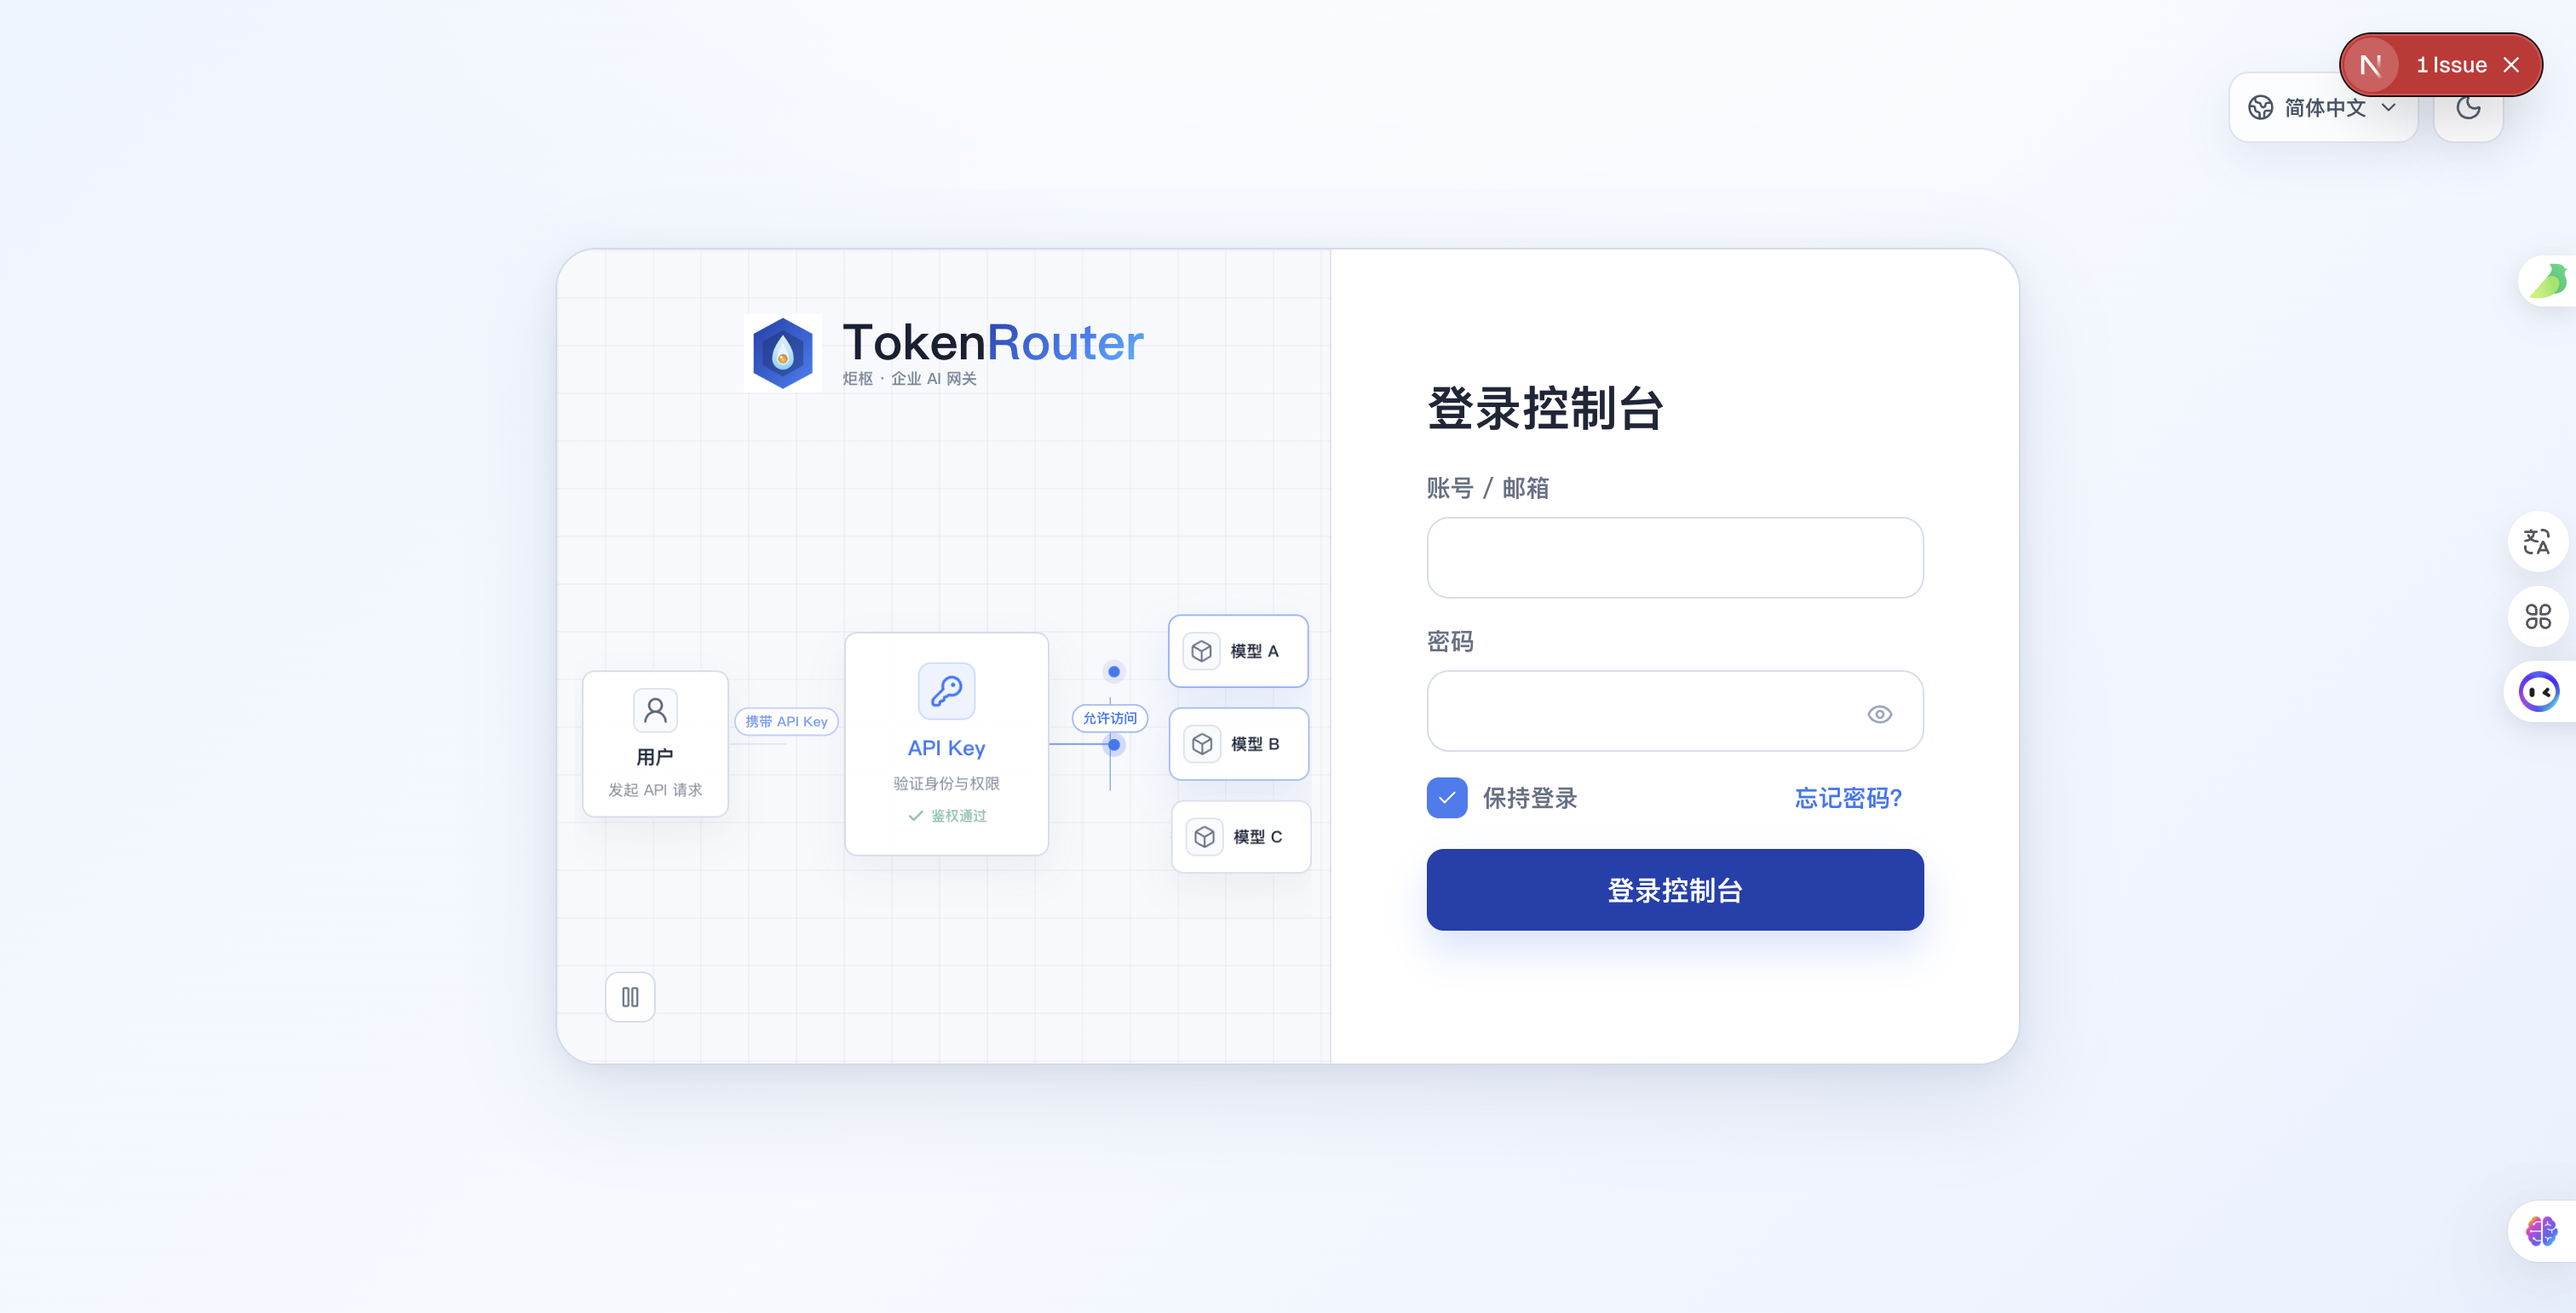
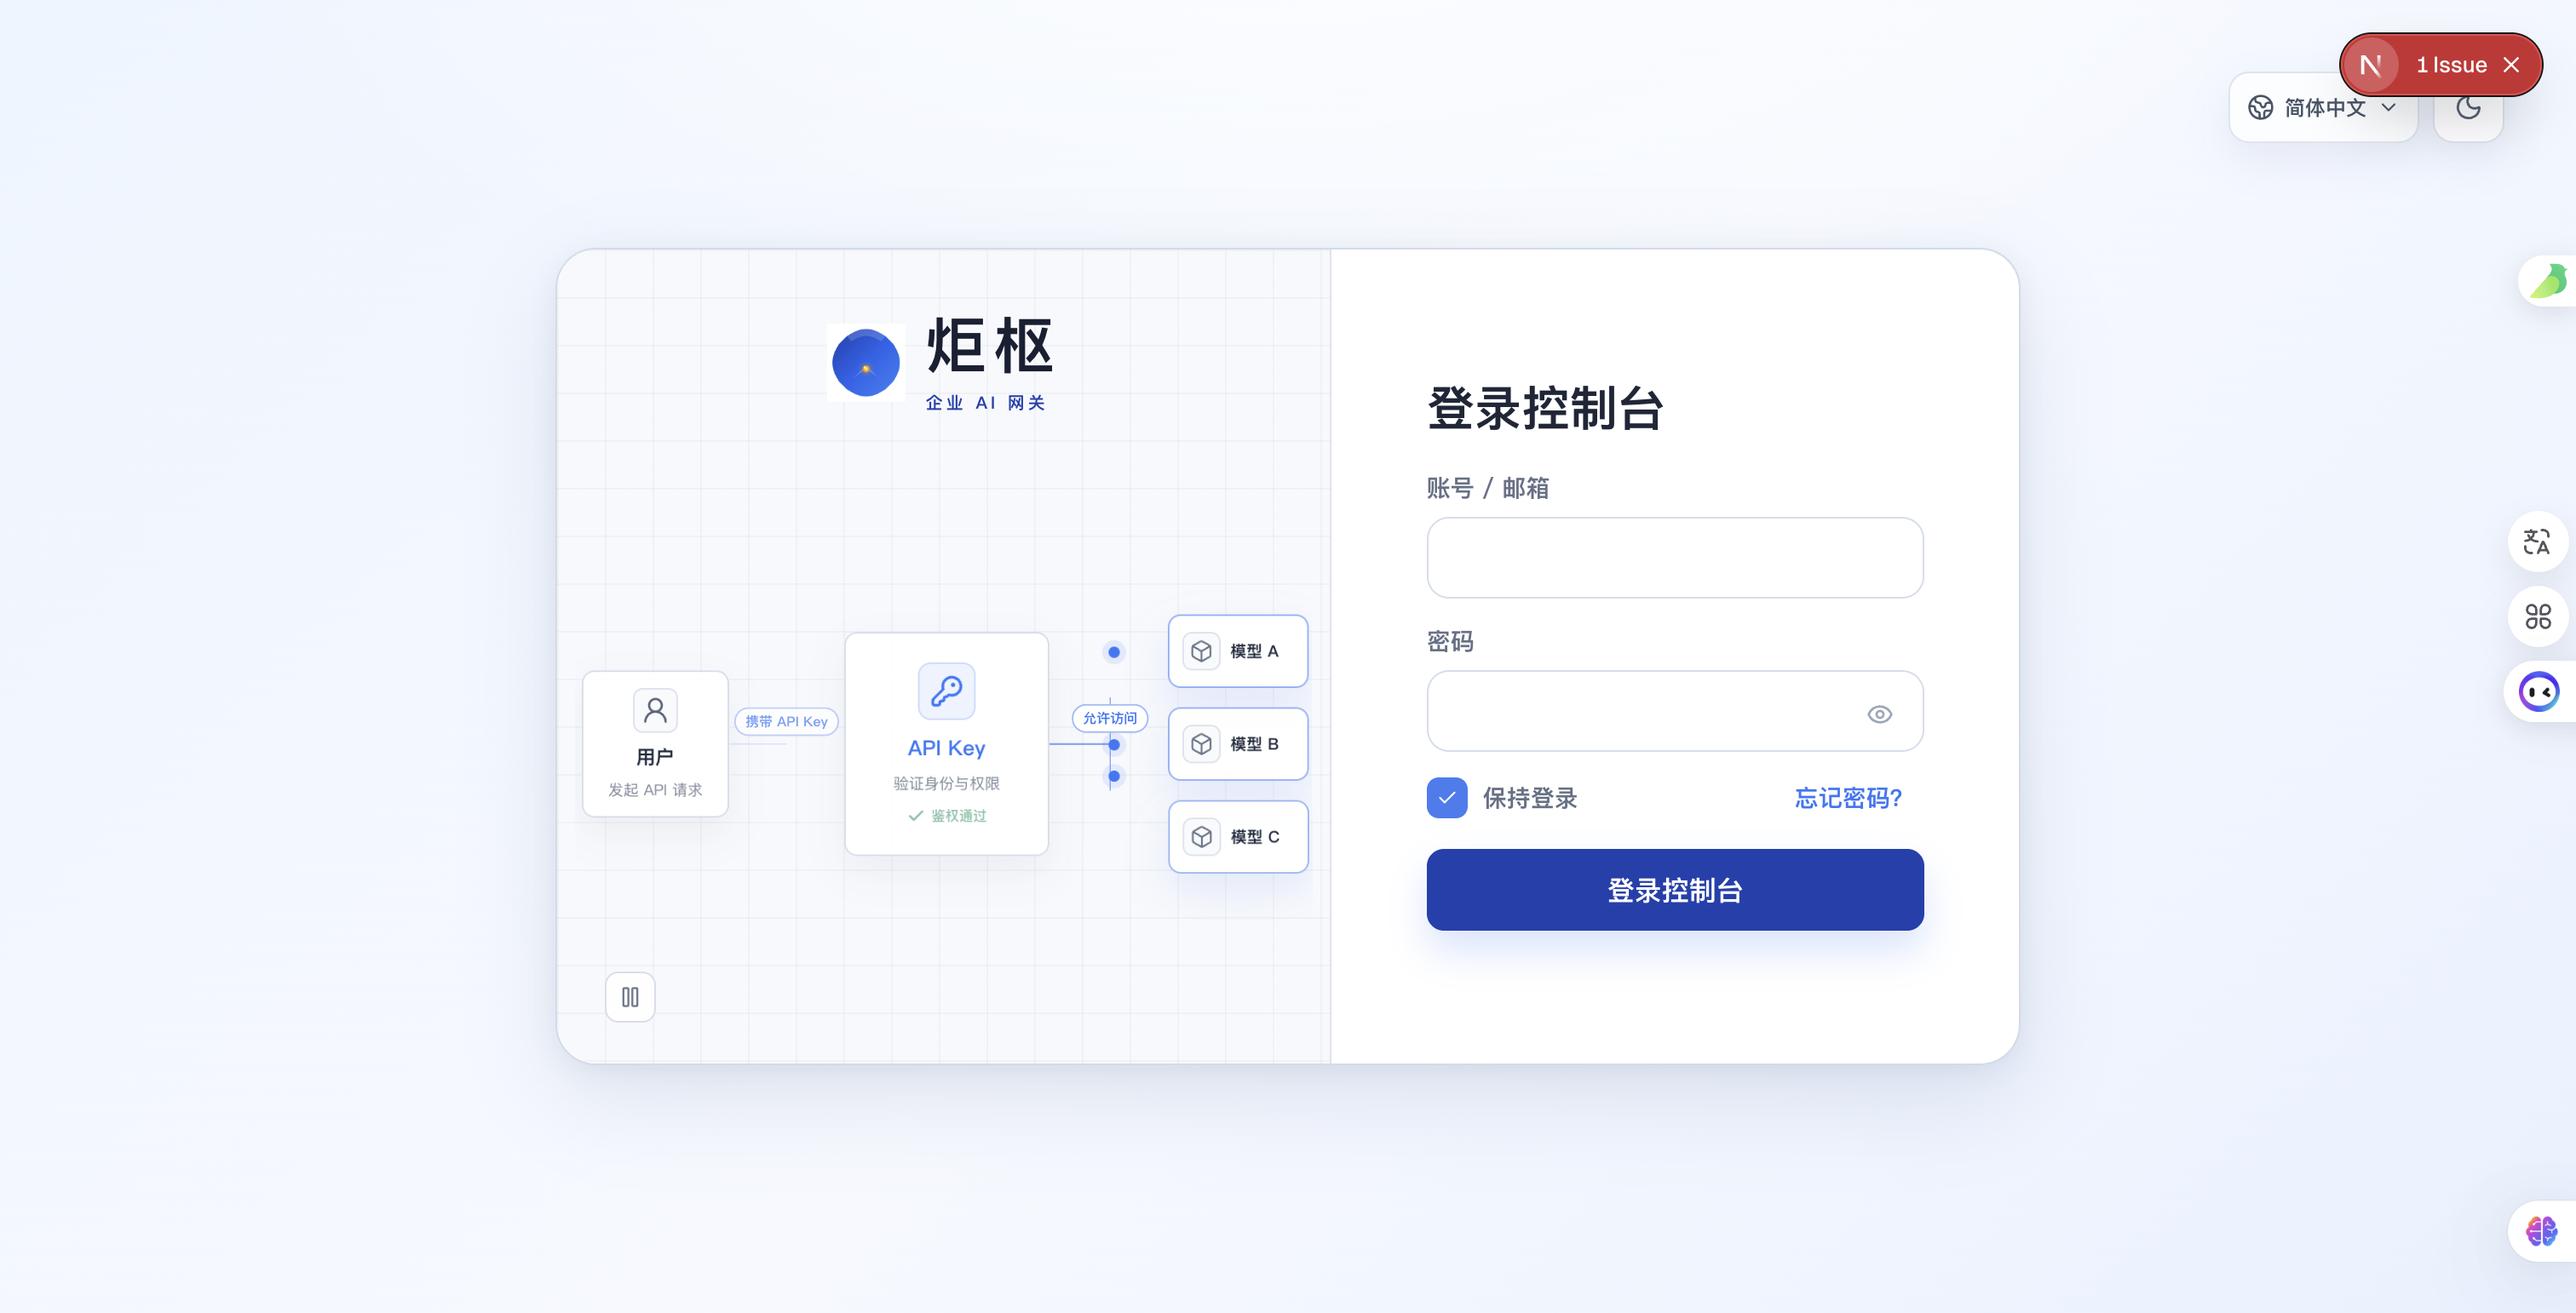
Brand lockup: 炬枢 as hero in sidebar & login
- 侧边栏：中文「炬枢」21px/780 主位 + 英文 TOKENROUTER 9px 宽字距(0.24em)品牌蓝副标，无溢出
- 登录页：36px/820/字距0.1em 大号中文锁字 + 「企业 AI 网关」副标(10px/0.2em 大写品牌蓝)，暗色适配
- i18n 恢复「企业 AI 网关」键（三语），门禁全绿

Changed region(s): [[0.2798, 0.2179, 0.4352, 0.3113], [0.4663, 0.6226, 0.4974, 0.6537], [0.4663, 0.5603, 0.4974, 0.5914]]

diff --git a/frontend/app/styles/redesign/tokenrouter.css b/frontend/app/styles/redesign/tokenrouter.css
@@ -1,32 +1,42 @@
 /* ===== TokenRouter 炬枢 design-system additions ===== */
 
-/* 品牌区：三行网格（logo 徽标 / 品牌名 / 版本状态），炬枢 chip 独立成行，杜绝溢出 */
+/* 品牌区：三行网格（logo / 中文主名 / 英文副标 + 版本），中文突出 */
 .brand {
   grid-template-areas:
     "logo name"
-    "logo zh"
+    "logo en"
     "logo version";
   min-height: 88px;
 }
 
 .brand-name {
   align-self: end;
+  font-size: 21px;
+  font-weight: 780;
+  letter-spacing: 0.06em;
+  line-height: 1;
+  color: var(--ink);
 }
 
-.brand-name-zh {
-  grid-area: zh;
+.brand-name-en {
+  grid-area: en;
   justify-self: start;
   align-self: start;
-  font-style: normal;
-  font-size: 10px;
-  font-weight: 600;
-  letter-spacing: 2px;
-  line-height: 1;
-  padding: 3px 8px 2px;
-  border-radius: 999px;
+  font-size: 9px;
+  font-weight: 680;
+  letter-spacing: 0.24em;
+  text-transform: uppercase;
   color: var(--accent);
-  background: var(--accent-weak);
-  border: 1px solid color-mix(in srgb, var(--accent) 22%, transparent);
+  line-height: 1;
+  padding-top: 2px;
+}
+
+.sidebar.collapsed .brand-name-en {
+  display: none;
+}
+
+.sidebar.collapsed .brand-name-zh {
+  display: none;
 }
 
 /* 侧边栏顶部品牌渐变线 */

diff --git a/frontend/app/styles/redesign/login-flow.css b/frontend/app/styles/redesign/login-flow.css
@@ -62,6 +62,32 @@
   letter-spacing: 0;
 }
 
+.login-brand-copy strong.login-brand-zh {
+  color: #182033;
+  font-size: 36px;
+  font-weight: 820;
+  line-height: 1;
+  letter-spacing: 0.1em;
+}
+
+.login-brand-copy small.login-brand-en {
+  margin-top: 7px;
+  color: var(--accent);
+  font-size: 10px;
+  font-weight: 720;
+  line-height: 1;
+  letter-spacing: 0.2em;
+  text-transform: uppercase;
+}
+
+[data-theme="dark"] .login-brand-copy strong.login-brand-zh {
+  color: #f3f6fb;
+}
+
+[data-theme="dark"] .login-brand-copy small.login-brand-en {
+  color: #93c5fd;
+}
+
 .login-brand-copy strong span {
   background: linear-gradient(135deg, #1e40af 0%, #3b82f6 60%, #38bdf8 100%);
   -webkit-background-clip: text;

diff --git a/frontend/features/admin/i18n/ja.tsx b/frontend/features/admin/i18n/ja.tsx
@@ -645,7 +645,7 @@ export const jaTranslations: Record<string, string> = {
     "驳回": "却下",
     "导出": "エクスポート",
     "切换主题": "テーマ切替",
-    "炬枢 · 企业 AI 网关": "炬枢 · 企業 AI ゲートウェイ", "网关运行中": "ゲートウェイ稼働中",
+    "企业 AI 网关": "企業 AI ゲートウェイ", "炬枢 · 企业 AI 网关": "炬枢 · 企業 AI ゲートウェイ", "网关运行中": "ゲートウェイ稼働中",
     "统一接入与成本治理平台": "統合アクセス・コストガバナンス基盤",
     "显示密码": "パスワードを表示",
     "隐藏密码": "パスワードを隠す",

diff --git a/frontend/features/admin/i18n/en.tsx b/frontend/features/admin/i18n/en.tsx
@@ -645,7 +645,7 @@ export const enTranslations: Record<string, string> = {
     "驳回": "Reject",
     "导出": "Export",
     "切换主题": "Toggle theme",
-    "炬枢 · 企业 AI 网关": "TokenRouter · Enterprise AI Gateway", "网关运行中": "Gateway Running",
+    "企业 AI 网关": "Enterprise AI Gateway", "炬枢 · 企业 AI 网关": "TokenRouter · Enterprise AI Gateway", "网关运行中": "Gateway Running",
     "统一接入与成本治理平台": "Unified access and cost governance platform",
     "显示密码": "Show password",
     "隐藏密码": "Hide password",

diff --git a/frontend/features/admin/shell/navigation-ui.tsx b/frontend/features/admin/shell/navigation-ui.tsx
@@ -35,8 +35,8 @@ export function Sidebar({
     <aside className={collapsed ? "sidebar collapsed" : "sidebar"}>
       <div className="brand">
         <img src="/brand/tokenrouter-logo.png" alt="TokenRouter" className="brand-logo" />
-        <span className="brand-name">TokenRouter</span>
-        <em className="brand-name-zh">炬枢</em>
+        <span className="brand-name">炬枢</span>
+        <span className="brand-name-en">TokenRouter</span>
         <div className="sidebar-version-status" id="sidebar-version-status" />
         <button
           className="sidebar-toggle"

diff --git a/frontend/features/admin/shared/auth.tsx b/frontend/features/admin/shared/auth.tsx
@@ -599,8 +599,8 @@ export function LoginView({
               <img src="/brand/tokenrouter-logo.png" alt="" />
             </span>
             <span className="login-brand-copy">
-              <strong>Token<span>Router</span></strong>
-              <small>{tx("炬枢 · 企业 AI 网关")}</small>
+              <strong className="login-brand-zh">炬枢</strong>
+              <small className="login-brand-en">{tx("企业 AI 网关")}</small>
             </span>
           </div>
 
